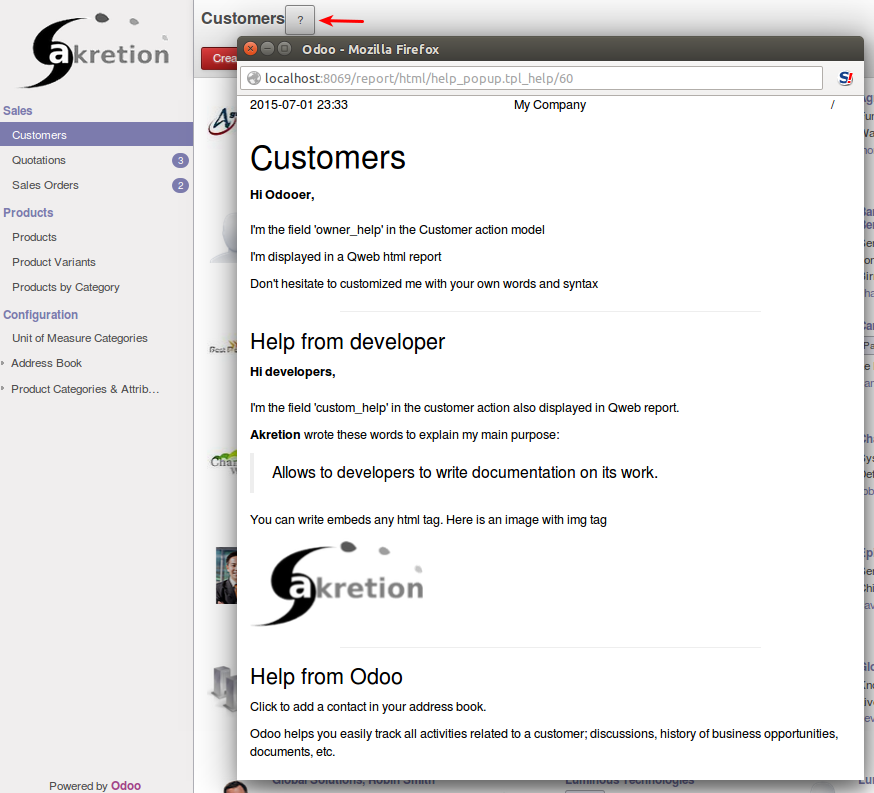
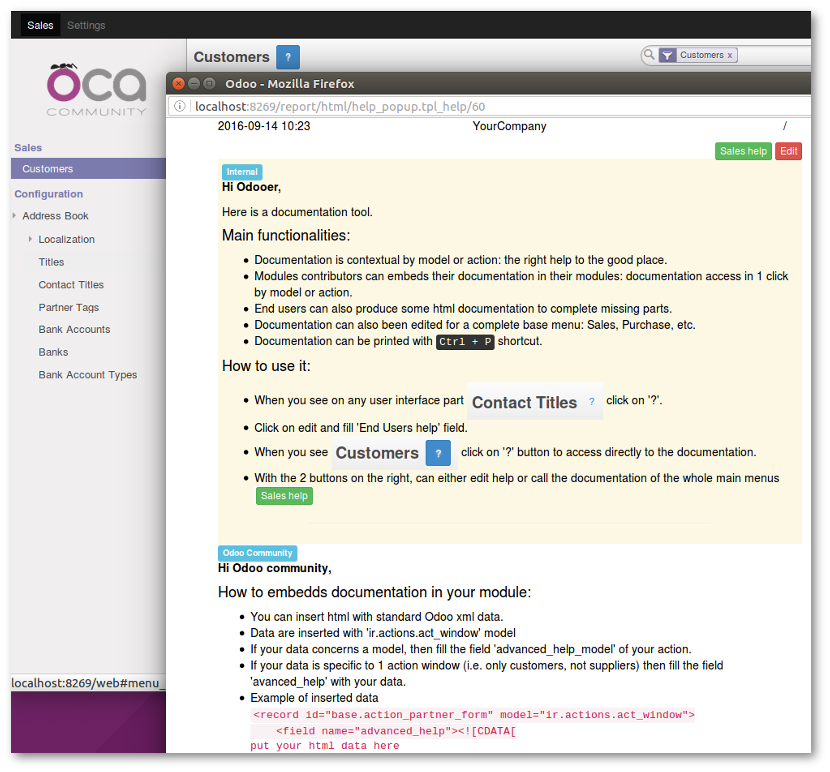
[IMP] add security file

diff --git a/help_popup/static/src/js/popup_help.js b/help_popup/static/src/js/popup_help.js
@@ -1,6 +1,7 @@
 openerp.help_popup = function(instance, local) {
 
     var _t = instance.web._t;
+
     instance.web.ViewManager.include({
 
         do_create_view: function(view_type) {
@@ -14,7 +15,7 @@ openerp.help_popup = function(instance, local) {
                     return true;
                 }
                 $elem.data('click-init', true);
-                console.log('me  ' + self)
+                console.log('blabla  ')
                 if (self.action.id == undefined || self.action.help_has_content == true) {
                     self.$el.find('span.update_help').hide()
                 }

diff --git a/help_popup/models/action_window.py b/help_popup/models/action_window.py
@@ -2,36 +2,18 @@
 # © 2015 David BEAL @ Akretion <david.beal@akretion.com>
 # License AGPL-3.0 or later (http://www.gnu.org/licenses/agpl.html).
 
-from BeautifulSoup import BeautifulSoup as BSHTML
+import logging
 import inspect
 
 from openerp import _, api, models, fields
-from openerp.exceptions import Warning as UserError
 
+_logger = logging.getLogger(__name__)
 
-class ErpHelp(models.AbstractModel):
-    _name = 'erp.help'
-
-    enduser_help = fields.Html(
-        string="End User Help",
-        help="Use this field to add custom content for documentation purpose\n"
-             "mainly by power users ")
-    advanced_help = fields.Text(
-        string="Advanced Help", groups='base.group_no_one',
-        help="Use this field to add custom content for documentation purpose\n"
-             "mainly by developers or consultants")
-
-    # @api.multi
-    # def write(self, vals):
-    #     if not self._context.get('install_mode') and 'advanced_help' in vals:
-    #         raise UserError(_("Advanced help field must only be updated "
-    #                           "by install mode (not with the user interface"))
-    #     return super(ErpHelp, self).write(vals)
-
-
-class IrModel(models.Model):
-    _inherit = ['ir.model', 'erp.help']
-    _name = 'ir.model'
+try:
+    from bs4 import BeautifulSoup as BSHTML
+except ImportError:
+    _logger.debug(
+        'Beautifulsoup required for help_popup module is not installed')
 
 
 class IrActionsActwindow(models.Model):
@@ -40,17 +22,18 @@ class IrActionsActwindow(models.Model):
     _rpt_menu = False
 
     enduser_help_model = fields.Html(
-        string='Enduser Help from Model', store="True",
-        compute='_compute_model_help', inverse='_inverse_model_help',
+        string='Enduser Help from Model', related='model_id.enduser_help',
         help="")
     advanced_help_model = fields.Text(
-        string='Advanced Help from model', store="True",
-        compute='_compute_model_help', inverse='_inverse_model_help',
+        string='Advanced Help from model', related='model_id.advanced_help',
         help="")
     action_help = fields.Boolean(string="Display Action Help")
     help_has_content = fields.Boolean(
         string="Content in help", compute='_compute_contains_help',
-        help="One of the help has content")
+        help="One of the help field has content")
+    model_id = fields.Many2one(
+        string='Model', comodel_name='ir.model', store=True,
+        compute='_compute_model_id')
 
     @api.one
     @api.depends('enduser_help', 'advanced_help',
@@ -62,30 +45,29 @@ class IrActionsActwindow(models.Model):
         else:
             self.help_has_content = False
 
-    @api.multi
-    def _compute_model_help(self):
-        for rec in self:
-            model = rec.env['ir.model'].search([('model', '=', rec.res_model)])
-            rec.enduser_help_model = model.enduser_help
-            rec.advanced_help_model = model.advanced_help
-
-    def _inverse_model_help(self):
-        for rec in self:
-            model = rec.env['ir.model'].search([('model', '=', rec.res_model)])
-            model.enduser_help = rec.enduser_help_model
-            model.advanced_help = rec.advanced_help_model
+    @api.one
+    @api.depends('res_model')
+    def _compute_model_id(self):
+        if self.res_model:
+            model = self.env['ir.model'].search(
+                [('model', '=', self.res_model)])
+            if model:
+                self.model_id = model.id
 
     @api.multi
     def write(self, vals):
         if self._context.get('install_mode'):
-            module_name = self.module_being_update_or_insert()
-            for field in ['advanced_help']:
-                if field in vals:
+            module_name = self.module_being_processing()
+            for field in ['advanced_help', 'advanced_help_model']:
+                if module_name and field in vals:
                     self._update_help_field(vals, field, module_name)
         return super(IrActionsActwindow, self).write(vals)
 
     @api.multi
     def _update_help_field(self, vals, field, module_name):
+        """ update partially the content of the field according to
+            which inserted information inside
+        """
         new_val_field = u'<help_%s>%s</help_%s>' % (
                         module_name, vals[field] or '', module_name)
         original_val_field = vals[field]
@@ -105,17 +87,21 @@ class IrActionsActwindow(models.Model):
                     self[field], new_val_field)
 
     @api.model
-    def module_being_update_or_insert(self):
+    def module_being_processing(self):
         for elm in inspect.stack():
             arg_values = inspect.getargvalues(elm[0])
             if 'locals' in arg_values.__dict__:
-                if arg_values.__dict__['locals'].get('module'):
-                    module = arg_values.__dict__['locals'].get('module')
-                    if module not in self.env.registry:
-                        return arg_values.__dict__['locals'].get('module')
+                module_name = arg_values.__dict__['locals'].get('module')
+                if module_name and \
+                        module_name not in self.env.registry._init_modules:
+                    return module_name
+        # We don't know stack evolution in future versions, alert required
+        _logger.warning("'module_being_processing()' hasn't found "
+                        "module name in the stack. Please check this method.")
+        return False
 
     @api.multi
-    def open_help_popup(self):
+    def button_open_help_popup(self):
         """ Open in a new tab instead of in popup"""
         self.ensure_one()
         return {
@@ -127,7 +113,7 @@ class IrActionsActwindow(models.Model):
 
     @api.model
     def get_help_actions(self):
-        """ called by the template"""
+        """ called by qweb template"""
         self._rpt_menu = self.get_main_menu()
         menu_names = self.get_menu_names(self._rpt_menu)
         actions = self.search([
@@ -150,7 +136,7 @@ class IrActionsActwindow(models.Model):
             ('value', '=', 'ir.actions.act_window,%s' % self.id),
         ])
         if ir_vals:
-            # we only keep the first menu beacause we have no info on menu_id
+            # we only keep the first menu because we have no info on menu_id
             self._rpt_menu = self.env['ir.ui.menu'].browse(ir_vals[0].res_id)
             while self._rpt_menu.parent_id:
                 self._rpt_menu = self._rpt_menu.parent_id
@@ -171,7 +157,22 @@ class IrActionsActwindow(models.Model):
         return {int(x.value[22:]): map_menu[x.res_id] for x in ir_vals}
 
     def _anchorize(self, string):
-        """ called by template """
+        """ called by qweb template """
         for char in ["'", '"', ' ']:
             string = string.replace(char, '-')
         return string
+
+    @api.one
+    def remove_obsolete_help(self, module_name):
+        """ We need to remove some partial content of the file """
+        for field in ['advanced_help', 'advanced_help_model']:
+            tag = getattr(
+                BSHTML(self[field]), 'help_%s' % module_name)
+            if tag:
+                old_content = ''.join(
+                    [unicode(x) for x in tag.contents if x])
+                if old_content:
+                    to_replace = '<help_%s>%s</help_%s>' % (
+                        module_name, old_content, module_name)
+                    value = self[field].replace(to_replace, '')
+                    self.write({field: value})

diff --git a/help_popup/tests/test_help.py b/help_popup/tests/test_help.py
@@ -1,0 +1,44 @@
+# coding: utf-8
+# © 2016 David BEAL @ Akretion <david.beal@akretion.com>
+# License AGPL-3.0 or later (http://www.gnu.org/licenses/agpl.html).
+
+# import logging
+
+
+from openerp.tests import common
+
+
+class TestHelpPopup(common.TransactionCase):
+
+    def test_qweb_help_report(self):
+        partner_act = self.env.ref('base.action_partner_form')
+        return partner_act.button_open_help_popup()
+
+    # def test_update_partially_field(self):
+    #     partner_act = self.env.ref('base.action_partner_form')
+    #     import pdb; pdb.set_trace()
+    #     partner_act.with_context(install_mode=True).write(
+    #         {'advanced_help': 'new_content'})
+    #     partner_act.with_context(install_mode=True).write(
+    #         {'advanced_help': 'toto'})
+    #     # import pdb; pdb.set_trace()
+    #     # vals = {'advanced_help': 'toto'}
+    #     # partner_act._update_help_field(vals, 'advanced_help', 'help_popup')
+    #     self.assertEqual(
+    #         partner_act.advanced_help,
+    #         u'\nnew_content<help_base>toto</help_base>',
+    #         "Partially updating of 'ir.model'.advanced_help is broken")
+    #     # partner_act.remove_obsolete_help('base')
+
+    def test_advanced_user_model_help(self):
+        """ test if advanced_help_model field in 'ir.actions.act_window'
+            propagate changes in 'ir.model' advanced_help field
+        """
+        partner_act = self.env.ref('base.action_partner_form')
+        partner_act.with_context(install_mode=True).write(
+            {'advanced_help_model': 'new_content'})
+        partner_mod = self.env['ir.model'].search(
+            [('model', '=', 'res.partner')])
+        self.assertEqual(
+            partner_mod.advanced_help, 'new_content',
+            "advanced_help and avanced_help_model fields are not equals")

diff --git a/help_popup/models/models.py b/help_popup/models/models.py
@@ -1,0 +1,40 @@
+# coding: utf-8
+# © 2015 David BEAL @ Akretion <david.beal@akretion.com>
+# License AGPL-3.0 or later (http://www.gnu.org/licenses/agpl.html).
+
+
+from openerp import api, models, fields
+
+
+class ErpHelp(models.AbstractModel):
+    _name = 'erp.help'
+
+    enduser_help = fields.Html(
+        string="End User Help",
+        help="Use this field to add custom content for documentation purpose\n"
+             "mainly by power users ")
+    advanced_help = fields.Text(
+        string="Advanced Help", groups='base.group_no_one',
+        help="Use this field to add custom content for documentation purpose\n"
+             "mainly by developers or consultants")
+
+
+class IrModel(models.Model):
+    _inherit = ['ir.model', 'erp.help']
+    _name = 'ir.model'
+
+
+class IrModuleModule(models.Model):
+    _inherit = 'ir.module.module'
+
+    @api.multi
+    def module_uninstall(self):
+        if self.name != 'help_popup':
+            domain = ['|',
+                      ('advanced_help', 'like', '%' + self.name + '%'),
+                      ('advanced_help_model', 'like', '%' + self.name + '%')]
+            actions = self.env['ir.actions.act_window'].search(domain)
+            for record in actions:
+                record.with_context(
+                    help_uninstall=True).remove_obsolete_help(self.name)
+        return super(IrModuleModule, self).module_uninstall()

diff --git a/help_popup/__openerp__.py b/help_popup/__openerp__.py
@@ -16,10 +16,15 @@
         'report/report.xml',
         'report/help.xml',
         'report/all.xml',
+        'security/group.xml',
+        'security/ir.model.access.csv',
     ],
     'demo': [
         'demo/help.xml',
     ],
+    'external_dependencies': {
+        'python': ['bs4'],
+    },
     'qweb': [
         'static/src/xml/popup_help.xml',
     ],

diff --git a/help_popup/models/__init__.py b/help_popup/models/__init__.py
@@ -1,0 +1,2 @@
+from . import models
+from . import action_window

diff --git a/help_popup/__init__.py b/help_popup/__init__.py
@@ -1,1 +1,1 @@
-from . import model
+from . import models

diff --git a/help_popup/tests/__init__.py b/help_popup/tests/__init__.py
@@ -1,0 +1,1 @@
+from . import test_help

diff --git a/help_popup/README.rst b/help_popup/README.rst
@@ -10,36 +10,31 @@ It brings to end users inline documentation.
 Some parts of the documentation can be modified by anyone (with proper rights).
 
 
-Configuration
-=============
-
-* Go to any view and click on the `?` near the title view.
-* Edit the html field to add content
-
-
-* You can provide documentation with this module by appending data 
-  in the field advanced_help (relative to action) or advanced_help_model
-  if your help must be associated to model instead of action
-
-
 Usage
 =====
 
-Click on ? button
+Read the documentation below
 
 
 .. image:: help_popup/static/description/popup.png
-    :alt: License: Help Popup
+    :alt: Help Popup
+
+Here is the documentation for the whole sales menu with a summary
+
+.. image:: help_popup/static/description/sales_doc.png
+    :alt: Documentaion for main menu
 
 
 Alternative
 -----------
 If you have website module installed, it could be an option
-to install help_online instead of this module.
+to install help_online instead of this module. Just compare them.
 
-Help Online is more advanced (allow the end user to add help)
-but depends on an other module.
-Help popup is more like an embedded help that use power users for end users.
+
+Roadmap / issue
+===============
+* For v9 move to knowledge repository
+* Allow to plug an online translator to reduce the translation effort to the popup.
 
 
 Bug Tracker
